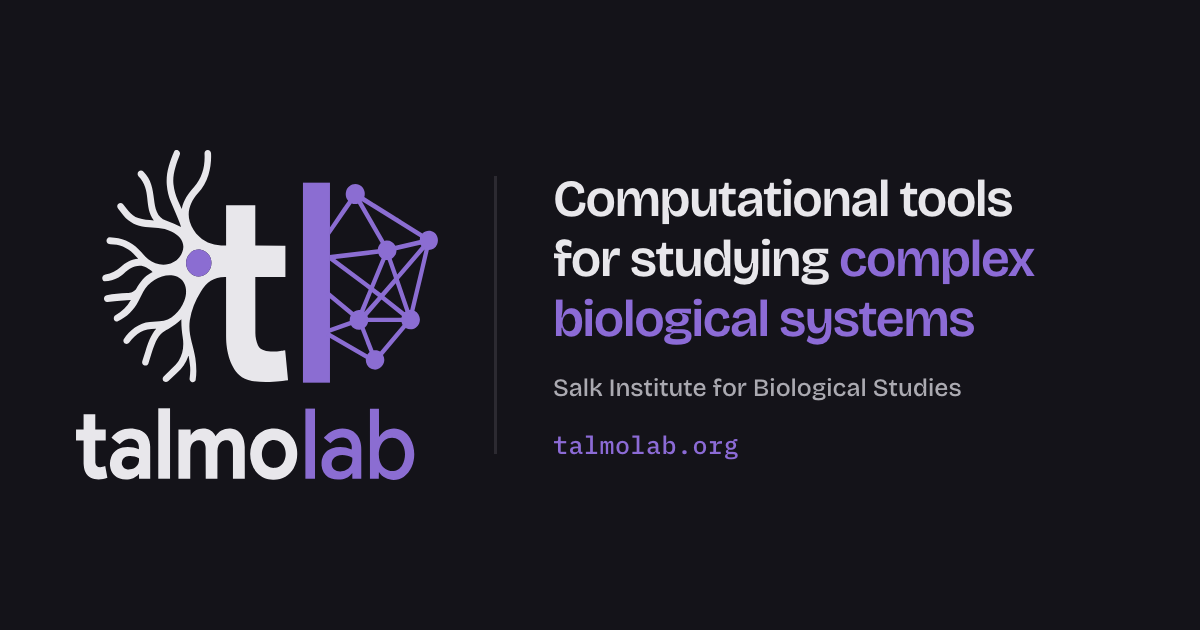
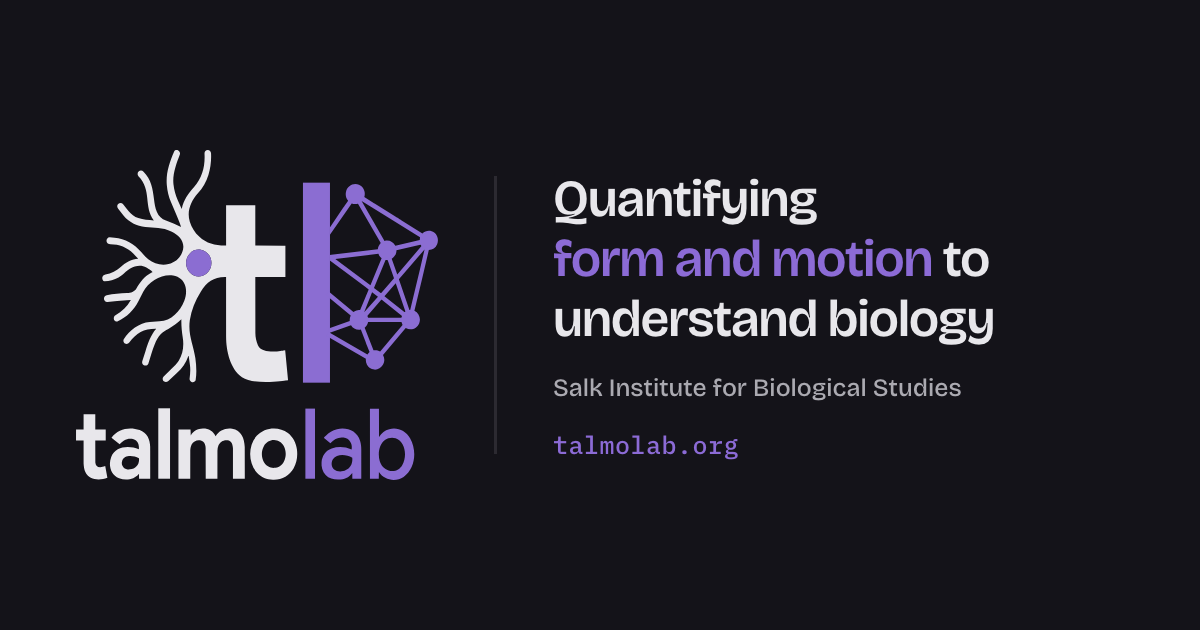
Home: new tagline, "Quantifying form and motion to understand biology"
Replaces "Computational tools for studying complex biological systems",
which read as abstract. The new line names what the lab measures (form
covers root architecture and morphology, motion is the lab's own word
for the pose-tracking work) and why.

- Home page headline, and its copy in the search index.
- Meta description (DESCRIPTION in site.ts) reworded to match, with the
  brand kit's reference copy in brand/og/meta-tags.html.
- Link-preview cards regenerated from og-template.html with the new
  line; the accent phrase is kept on one line. public/og-card.png
  synced. The app icons regenerated byte-identical.
- brand/README.md: the known-issues note no longer says the cards carry
  an old tagline. They are still set in the old typefaces.

Changed region(s): [[0.4625, 0.2714, 0.8633, 0.5429]]

diff --git a/brand/og/meta-tags.html b/brand/og/meta-tags.html
@@ -16,14 +16,14 @@
 
 <!-- ── Core ─────────────────────────────────────────────────────────────── -->
 <title>Talmo Lab · Salk Institute</title>
-<meta name="description" content="Talmo Pereira's lab at the Salk Institute for Biological Studies builds computational tools that use deep learning and computer vision to study complex biological systems.">
+<meta name="description" content="Talmo Pereira's lab at the Salk Institute for Biological Studies builds deep learning and computer vision tools that quantify form and motion to understand biology.">
 <link rel="canonical" href="https://talmolab.org/">
 
 <!-- ── OpenGraph (Slack, iMessage, LinkedIn, Discord, Facebook) ─────────── -->
 <meta property="og:type"         content="website">
 <meta property="og:site_name"    content="Talmo Lab">
 <meta property="og:title"        content="Talmo Lab">
-<meta property="og:description"  content="Talmo Pereira's lab at the Salk Institute for Biological Studies builds computational tools that use deep learning and computer vision to study complex biological systems.">
+<meta property="og:description"  content="Talmo Pereira's lab at the Salk Institute for Biological Studies builds deep learning and computer vision tools that quantify form and motion to understand biology.">
 <meta property="og:url"          content="https://talmolab.org/">
 <meta property="og:image"        content="https://talmolab.org/og-card.png">
 <meta property="og:image:type"   content="image/png">

diff --git a/brand/scripts/og-template.html b/brand/scripts/og-template.html
@@ -39,7 +39,7 @@
   body.dark .bar{background:var(--dmrule)}
   .copy{display:flex;flex-direction:column;gap:var(--cgap);min-width:0}
   .desc{font-size:var(--descs);font-weight:600;line-height:1.16;letter-spacing:-.025em;text-wrap:balance}
-  .desc em{font-style:normal;color:var(--acc)}
+  .desc em{font-style:normal;color:var(--acc);white-space:nowrap}
   body.dark .desc em{color:var(--accdm)}
   .meta{font-size:var(--metas);font-weight:500;line-height:1.4;color:var(--muted)}
   body.dark .meta{color:var(--dmmuted)}
@@ -62,7 +62,7 @@
   <div class="logo"><img id="lg" src="lockup.svg" alt=""></div>
   <div class="bar"></div>
   <div class="copy">
-    <div class="desc">Computational tools for studying <em>complex biological systems</em></div>
+    <div class="desc">Quantifying <em>form and motion</em> to understand biology</div>
     <div class="meta">Salk Institute for Biological Studies</div>
     <div class="url">talmolab.org</div>
   </div>

diff --git a/src/lib/site.ts b/src/lib/site.ts
@@ -5,7 +5,7 @@ export const INSTITUTE = 'Salk Institute for Biological Studies';
 export const EMAIL = 'talmo@salk.edu';
 export const ADDRESS = ['10010 North Torrey Pines Road', 'La Jolla, California 92037'];
 export const DESCRIPTION =
-  "Talmo Pereira's lab at the Salk Institute for Biological Studies builds computational tools that use deep learning and computer vision to study complex biological systems.";
+  "Talmo Pereira's lab at the Salk Institute for Biological Studies builds deep learning and computer vision tools that quantify form and motion to understand biology.";
 
 export const NAV = [
   { href: '/research/', label: 'Research' },

diff --git a/src/pages/search.json.ts b/src/pages/search.json.ts
@@ -9,7 +9,7 @@ export const GET: APIRoute = async () => {
   const docs: { type: string; title: string; detail?: string; url: string; text: string }[] = [];
 
   const pages = [
-    ['Home', '/', 'Computational tools for studying complex biological systems'],
+    ['Home', '/', 'Quantifying form and motion to understand biology'],
     ['Research', '/research/', 'Biological motion capture, phenoinformatics, virtual biology'],
     ['Publications', '/publications/', 'Papers, preprints and proceedings; BibTeX, CSL JSON'],
     ['Tools', '/tools/', 'Open-source software: SLEAP and related tools'],

diff --git a/brand/README.md b/brand/README.md
@@ -270,9 +270,9 @@ in [Violet is not a text colour](#violet-is-not-a-text-colour).
 
 ### Known issues and gotchas
 
-- **The share cards use old type.** They are set in Bricolage Grotesque and IBM Plex Mono
-  with an old tagline, not Source Sans 3. To fix: edit `scripts/og-template.html`, then run
-  `mkog.py` and `sync-public.py`.
+- **The share cards use old type.** They are set in Bricolage Grotesque and IBM Plex Mono,
+  not Source Sans 3. To fix: edit `scripts/og-template.html`, then run `mkog.py` and
+  `sync-public.py`.
 - **Re-normalise after every Illustrator export.** Illustrator writes the `l` of “talmo”
   as a rect rotated −89.9966°, which ImageMagick silently drops (the wordmark renders as
   “ta molab”). Run `python3 scripts/normalize-svg.py talmolab-logo.v003.svg` (keeps a
